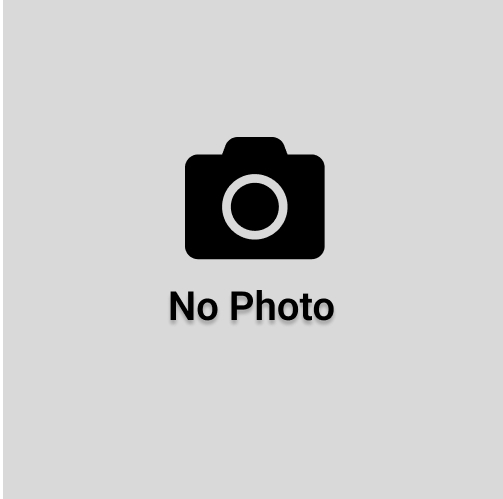
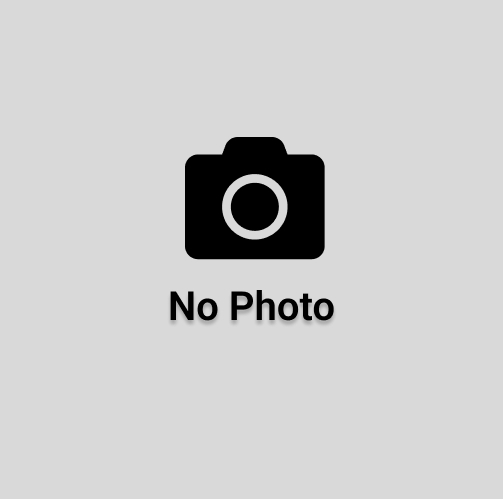
changed image and some tailwind config

Changed region(s): [[0.0, 0.0, 0.0298, 1.0]]

diff --git a/js/homepage.js b/js/homepage.js
@@ -45,7 +45,7 @@ const showListings = (data) => {
                     listingMedia = `
                                     <img
                                         class="rounded-lg object-cover h-full w-full shadow-lg"
-                                        src="./media/No-Photo.jpg"
+                                        src="./media/no-photo.jpg"
                                         alt="Product image"
                                     />
                     `;
